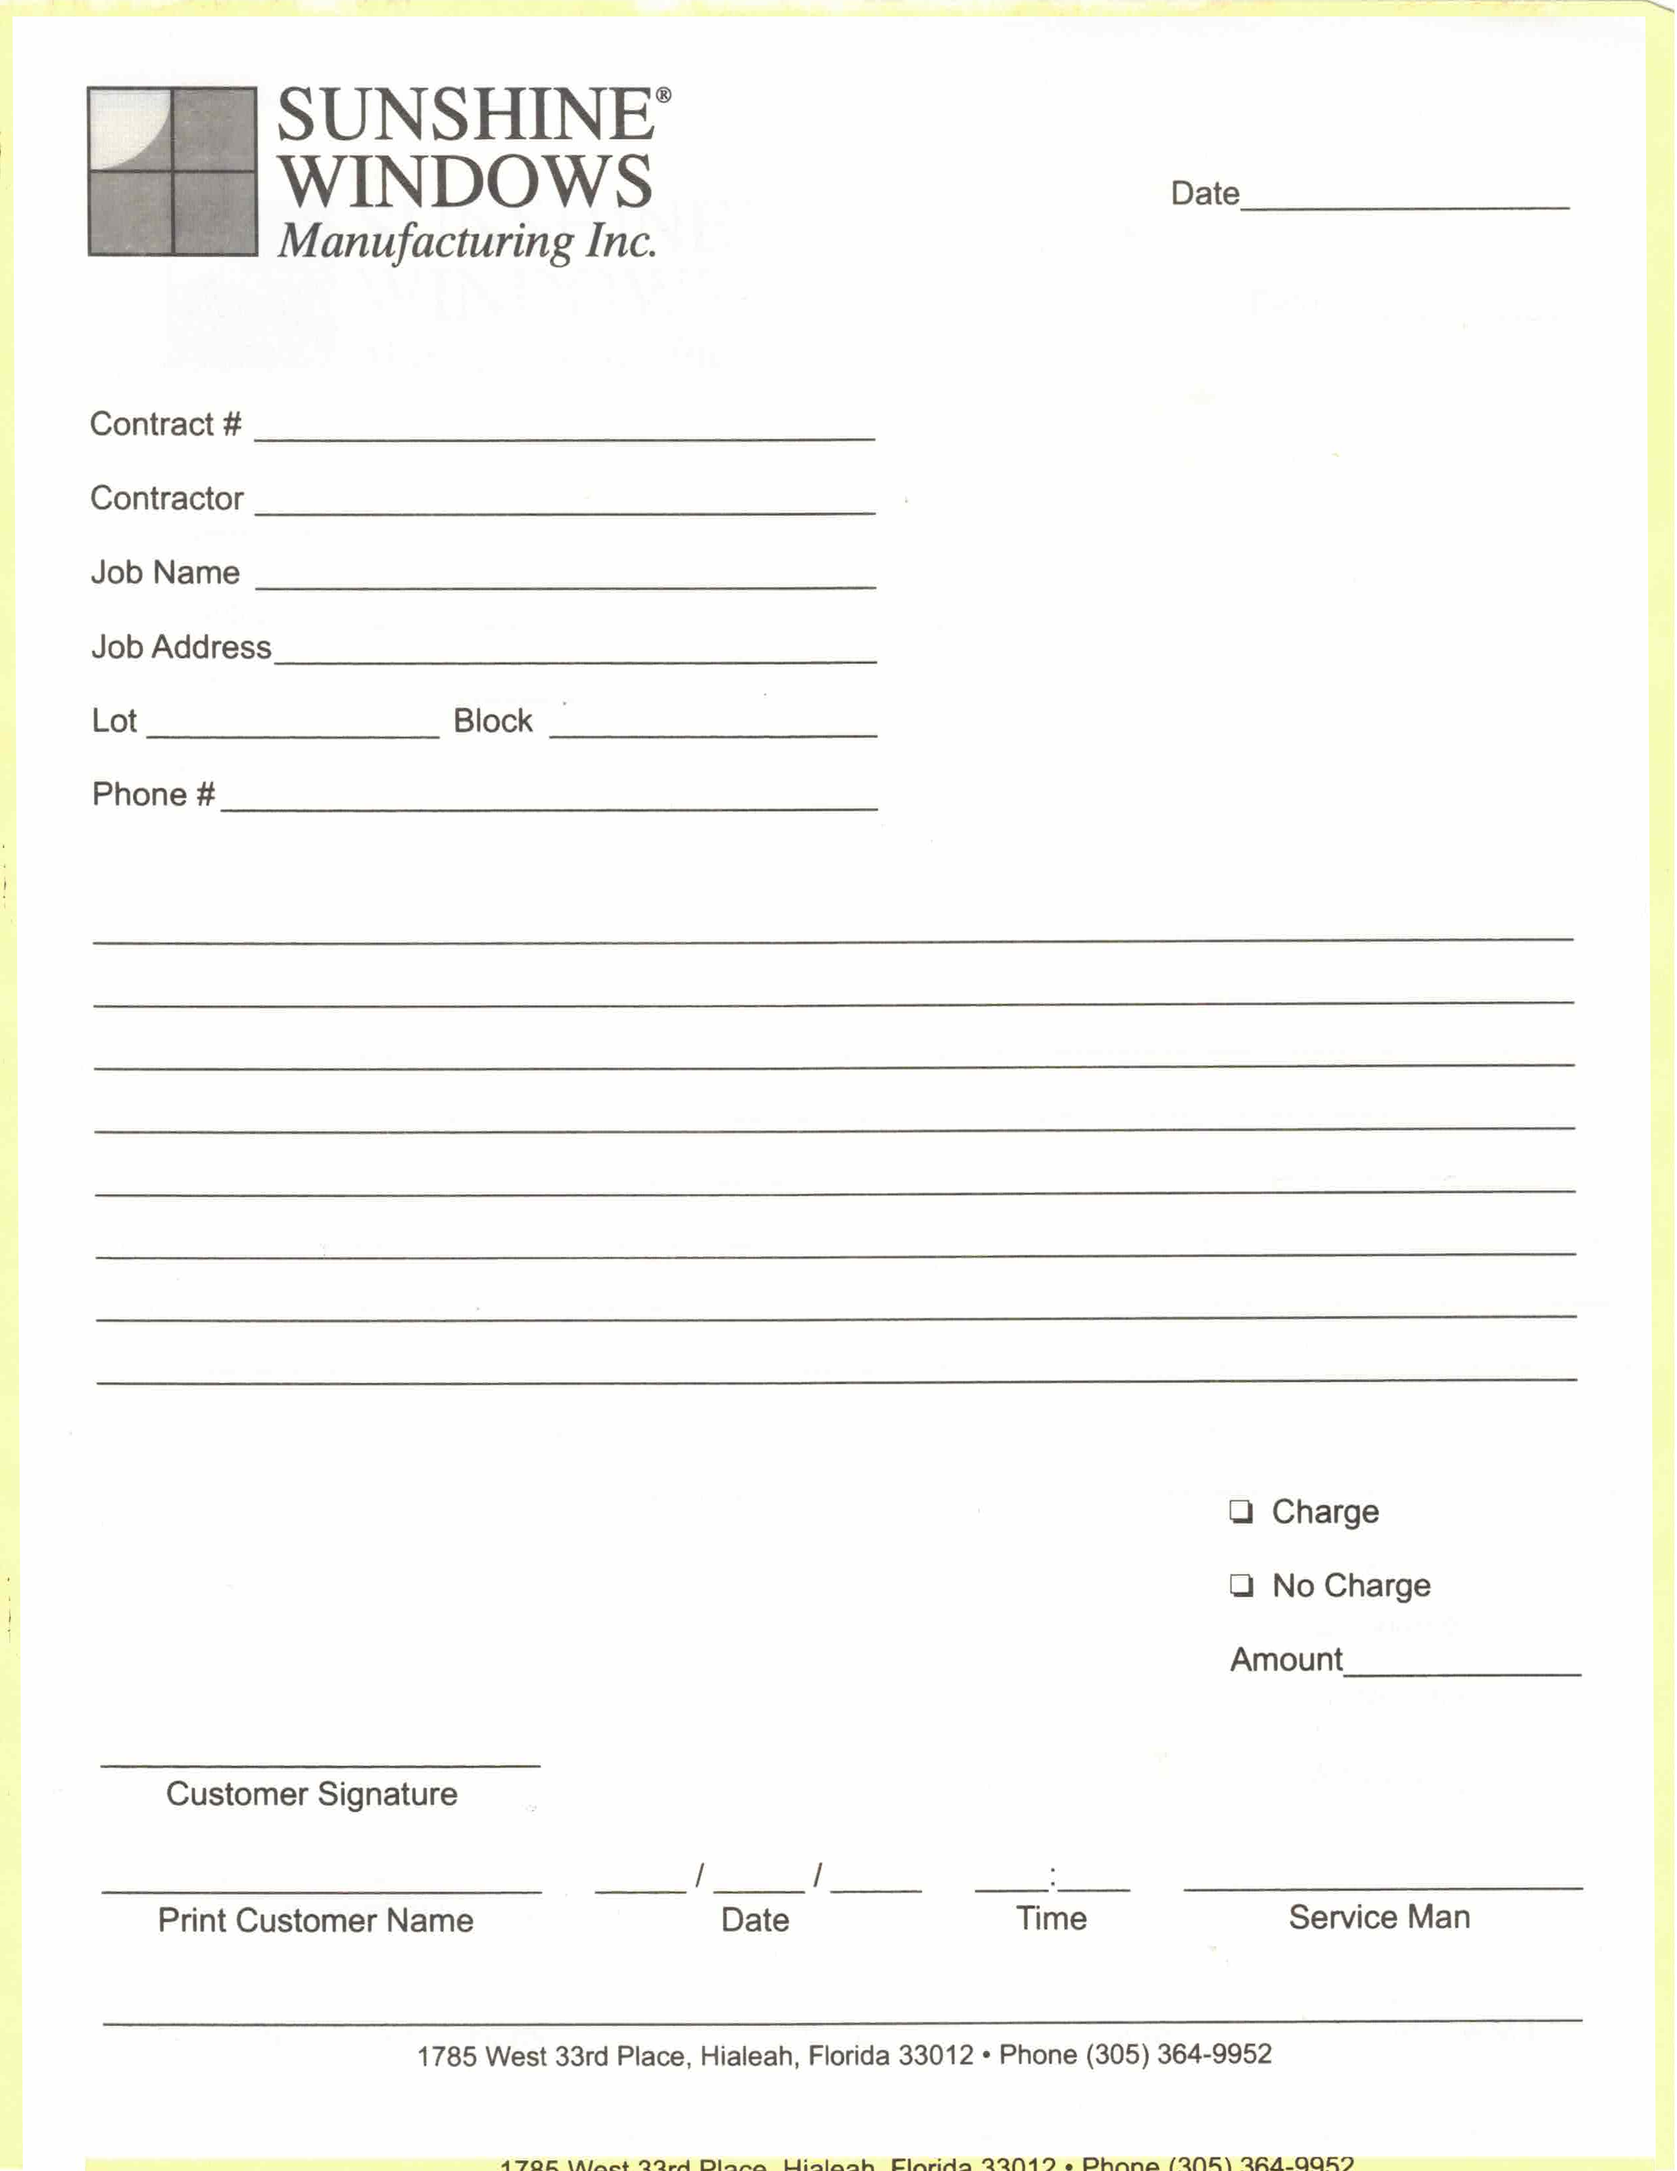
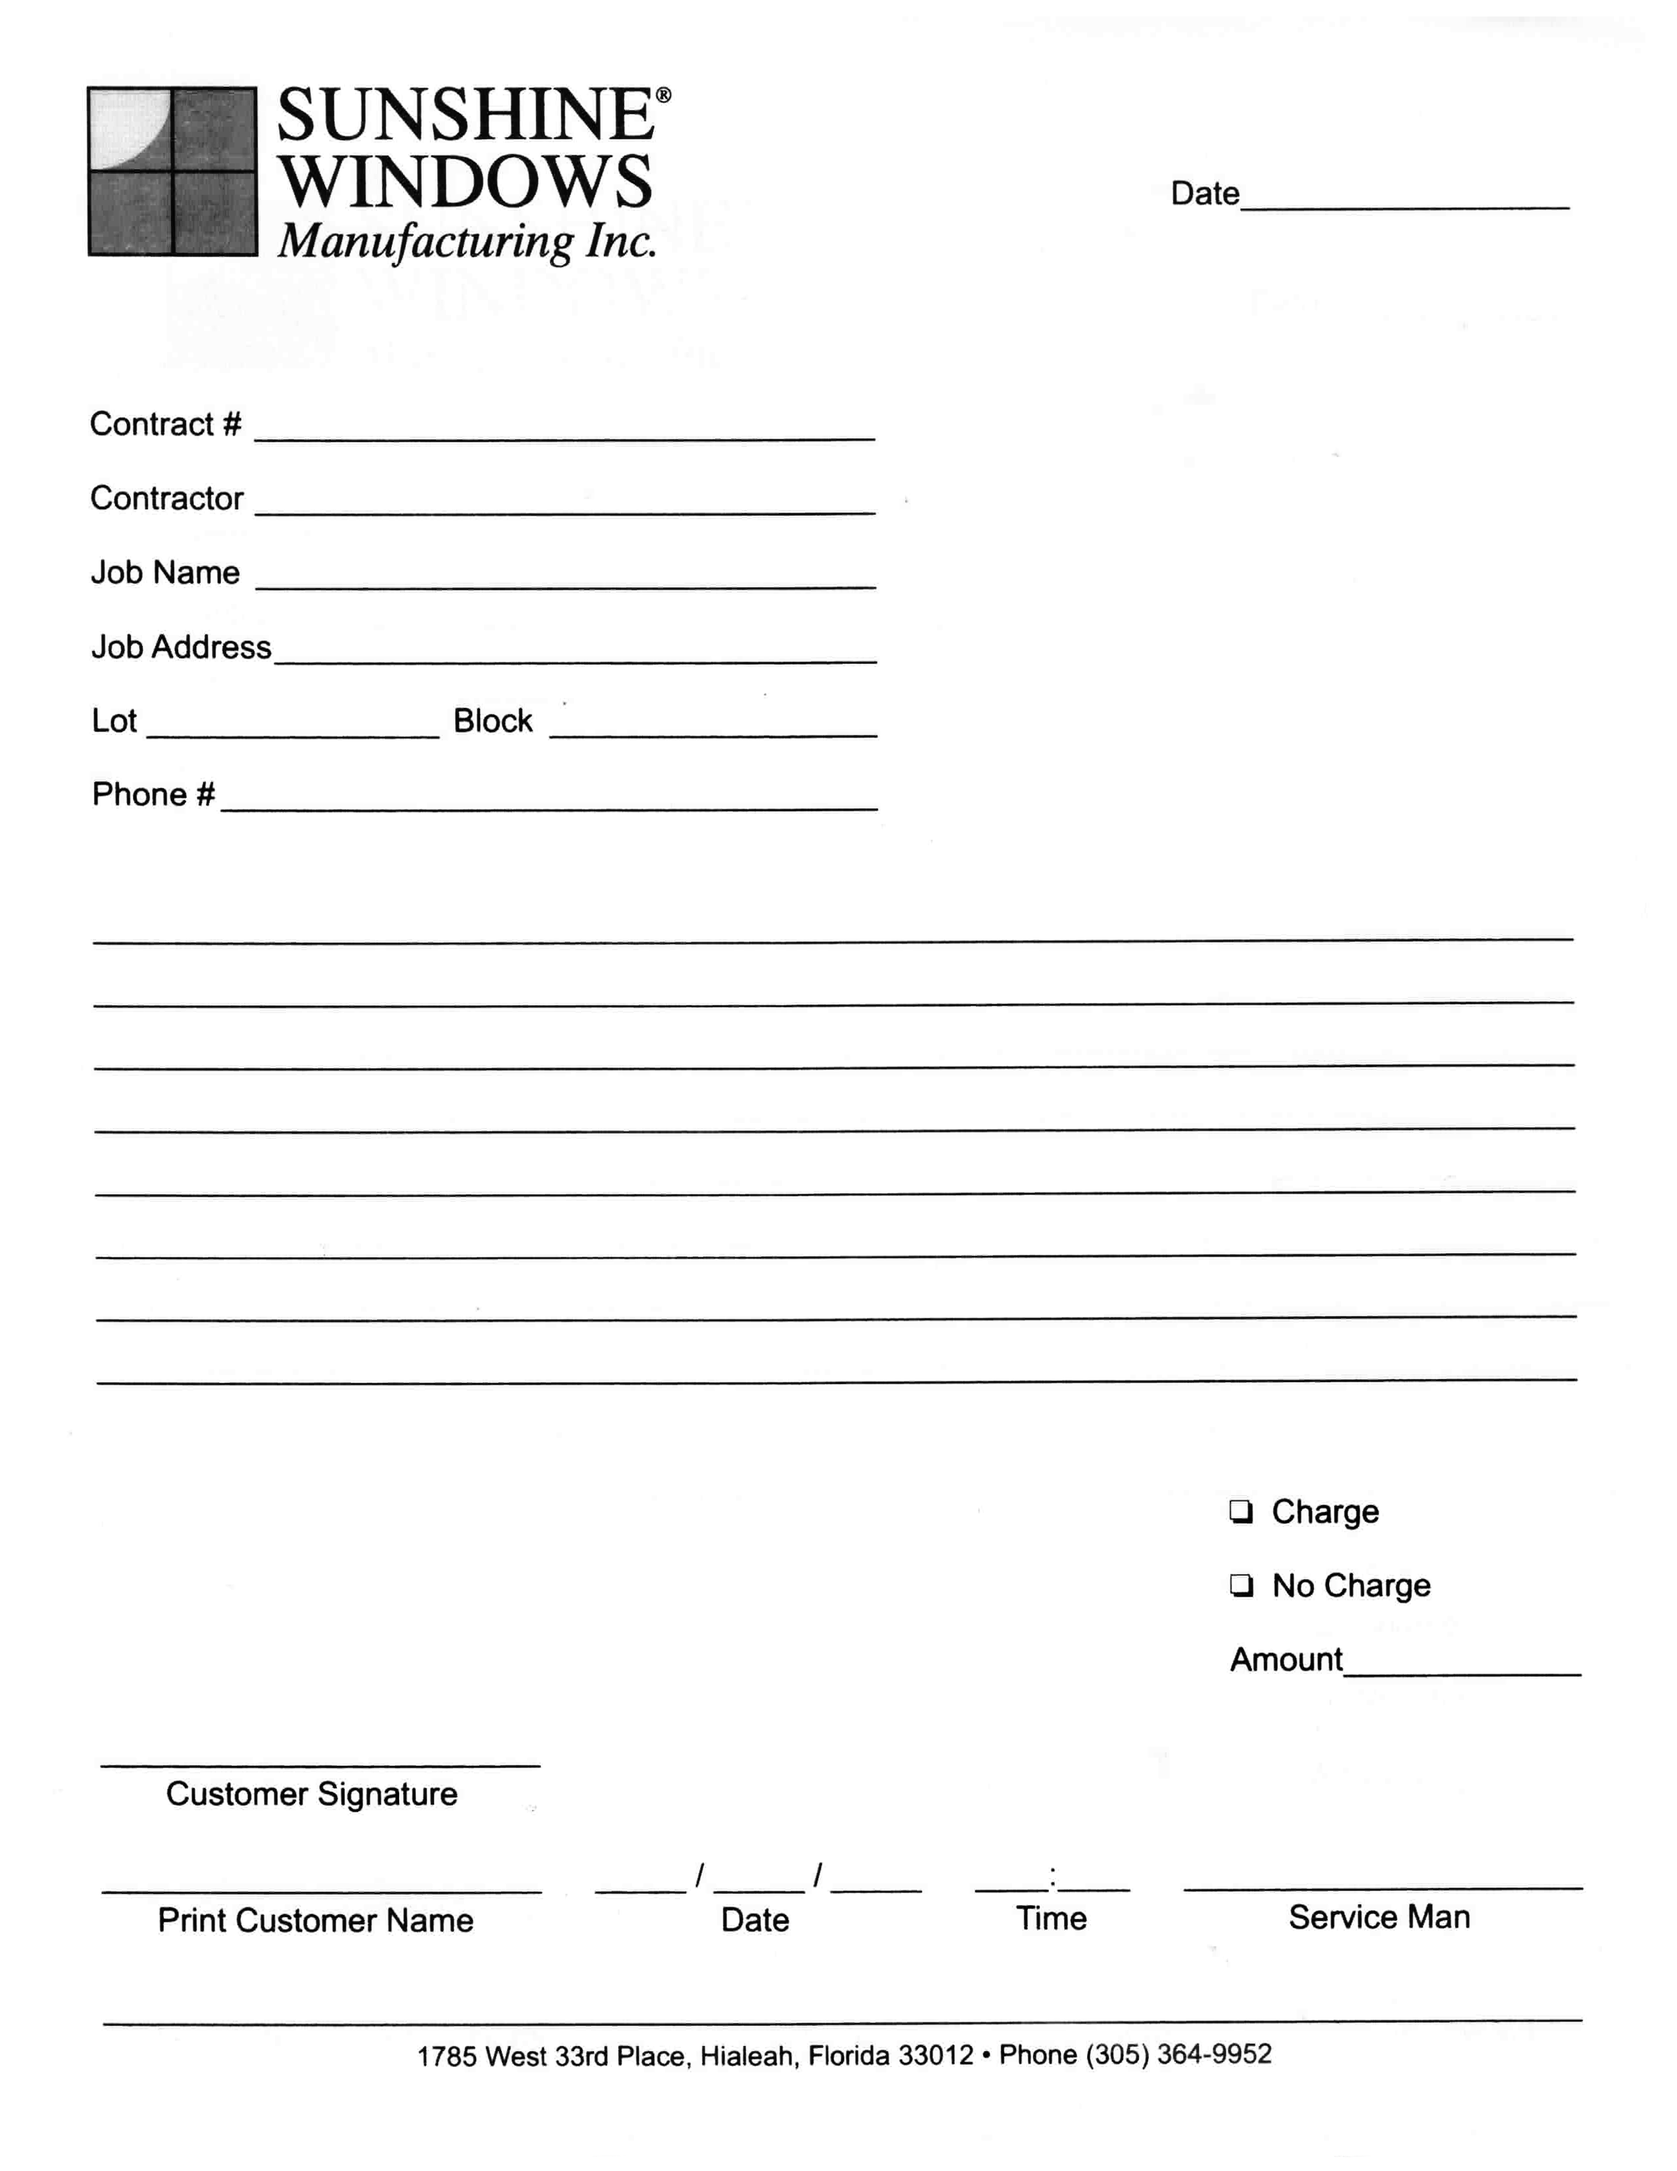
I still dont see it

diff --git a/src/lib/actions.ts b/src/lib/actions.ts
@@ -3,6 +3,7 @@
 
 import fs from 'fs/promises';
 import path from 'path';
+import os from 'os';
 import type { Ticket } from './types';
 import { revalidatePath } from 'next/cache';
 import { nanoid } from 'nanoid';
@@ -21,7 +22,8 @@ async function readConfig(): Promise<AppConfig> {
         return JSON.parse(fileContent) as AppConfig;
     } catch (error) {
         if ((error as NodeJS.ErrnoException).code === 'ENOENT') {
-             const defaultConfig = { dbPath: 'C:\\TicketMakerDatabase\\database.json' };
+             const defaultDbPath = path.join(os.homedir(), 'TicketMakerDatabase', 'database.json');
+             const defaultConfig = { dbPath: defaultDbPath };
             await writeConfig(defaultConfig);
             return defaultConfig;
         }
@@ -50,18 +52,7 @@ export async function updateDbPath(newPath: string): Promise<{success: boolean, 
       const config = await readConfig();
       config.dbPath = newPath;
       await writeConfig(config);
-
-      if (newPath) {
-        const resolvedNewPath = path.resolve(newPath);
-        try {
-          await fs.access(resolvedNewPath);
-        } catch (e) {
-          // File doesn't exist, create it.
-          await fs.mkdir(path.dirname(resolvedNewPath), { recursive: true });
-          await fs.writeFile(resolvedNewPath, '[]', 'utf-8');
-        }
-      }
-
+      
       revalidatePath('/');
       return { success: true };
     } catch(e: any) {

diff --git a/src/app/page.tsx b/src/app/page.tsx
@@ -188,7 +188,7 @@ export default function DashboardPage() {
                           id="db-path"
                           value={newDbPath}
                           onChange={(e) => setNewDbPath(e.target.value)}
-                          placeholder="C:\TicketMakerDatabase\database.json"
+                          placeholder="e.g. C:\Users\User\Documents\tickets.json"
                       />
                        <p className="text-sm text-muted-foreground">
                           Enter an absolute path on your PC to save the database file. The file will be created automatically if it doesn't exist.
